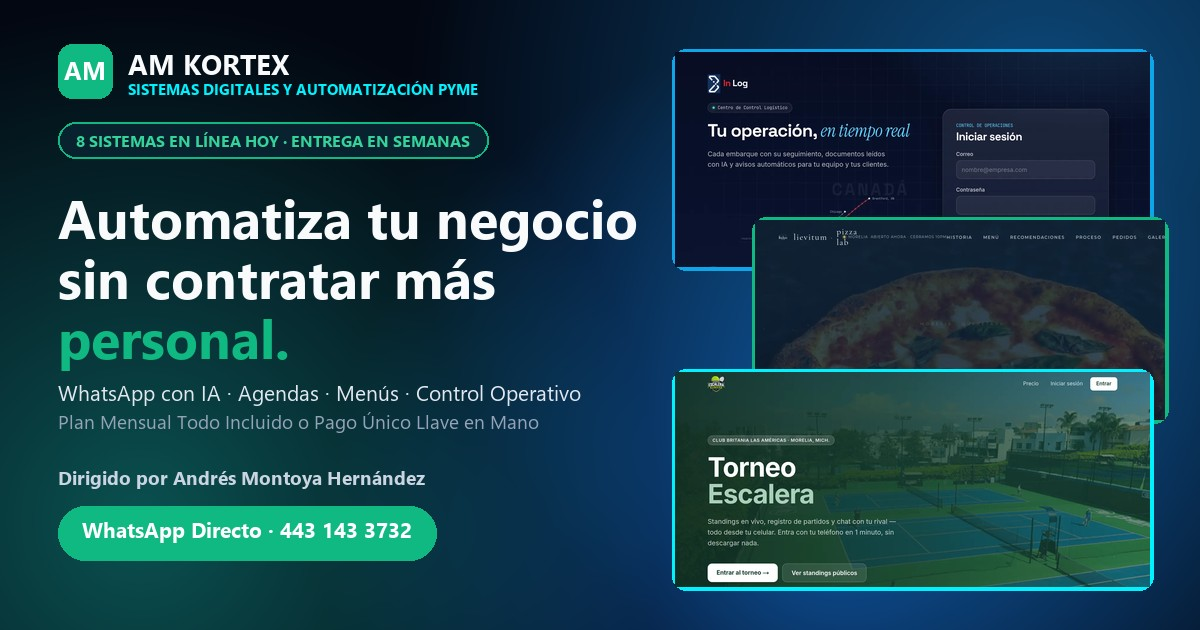
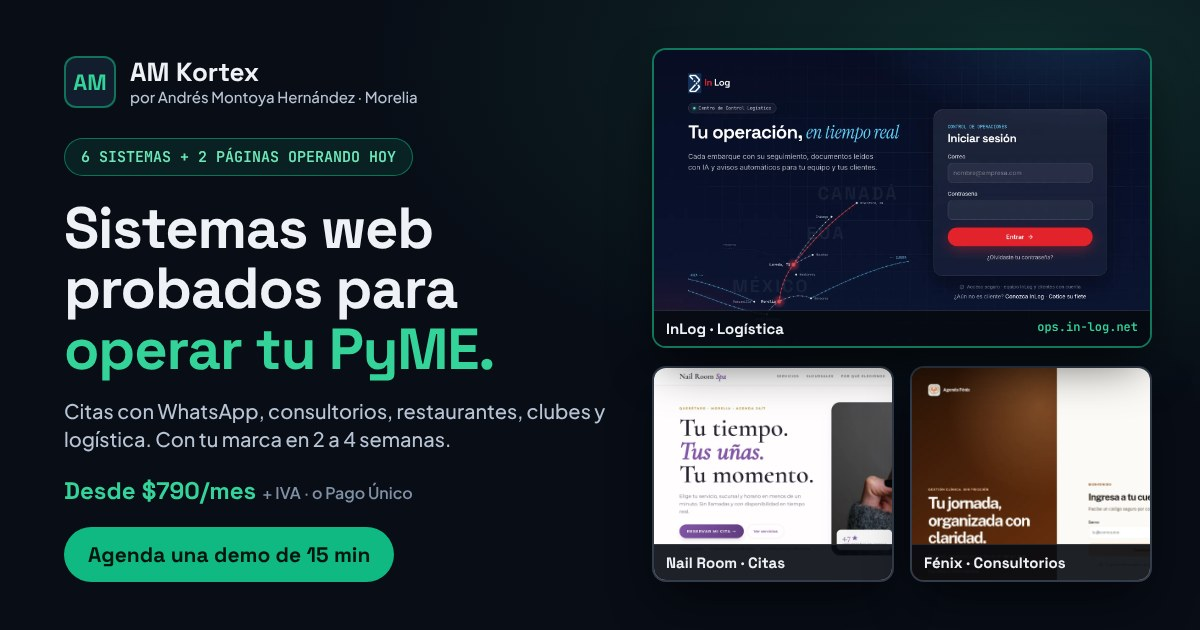
feat(site): new share image, email contact, honest ROI estimate, mobile tap targets (#3)
* feat(pricing): IVA, tiered support policy, rental terms; remove public family discount

- Show prices as MXN + IVA across hero, comparison, catalog, quoter, WhatsApp and PDF; add FAQ on IVA/CFDI
- Post-delivery support policy tiered per price tier ($490 / $590 / $890 / $1,490 per month)
- Monthly plan: 12-month minimum term and support capped at 2 h/month (site, PDF, sales kit)
- Remove public "Convenio Familiar / Amigo" card, quoter option and catalog column
- Lievitum: stop showing lievitum.com (now an unrelated site); label as demo
- Delete draft pages (opcion-*, hallmark-*) with stale prices; clean robots.txt
- WhatsApp quote uses the final price instead of the mid-animation value
- Fix mobile button text overflow and PDF footer truncation

Claude-Session: https://claude.ai/code/session_01S8LoLeHYkLSjTn2UqKphN6

* feat(site): static hero showcase, pricing tiers, demo CTA and mobile polish

- Replace the hero carousel with a fixed 3-system showcase (CLS 0.27 -> 0.004)
- Primary CTA is now "Agenda una demo de 15 min" (WhatsApp); "Ver sistemas en vivo" as secondary
- New "¿Cuánto cuesta?" section with the 4 price tiers, built from PLATFORMS data
- Nav: "Precios" link and compact "Agendar demo" button; brand subtitle hidden on phones
- Proof strip: "6 sistemas + 2 páginas web" instead of "8 en línea"
- Mobile: swipeable catalog and tiers instead of the 3D carousel, comparison table as cards,
  icon-only WhatsApp button, tighter section padding
[…]

diff --git a/index.html b/index.html
@@ -4,11 +4,11 @@
   <meta charset="UTF-8" />
   <meta name="robots" content="index, follow" />
   <meta name="viewport" content="width=device-width, initial-scale=1.0, maximum-scale=5.0" />
-  <title>AM Kortex | Sistemas Digitales, Páginas Web y Automatización para Negocios · Andrés Montoya</title>
-  <meta name="description" content="AM Kortex (dirigido por Andrés Montoya Hernández): sistemas digitales probados para clínicas, restaurantes, spas, clubes y empresas. Demostraciones en vivo y cotizador en PDF." />
+  <title>AM Kortex | Sistemas web probados para PyMEs en Morelia y Querétaro</title>
+  <meta name="description" content="Sistemas web ya operando con clientes reales: citas con WhatsApp, consultorios, restaurantes, clubes y logística. Con tu marca en 2 a 4 semanas, desde $790/mes + IVA. Agenda una demo de 15 minutos." />
   <meta name="author" content="AM Kortex · Andrés Montoya Hernández" />
   <meta name="theme-color" content="#080d16" />
-  <!-- URL BASE DEL SITIO: al conectar el dominio amkortex.com, reemplazar en canonical, og:url, og:image, twitter:image, JSON-LD, robots.txt y sitemap.xml -->
+  <!-- URL BASE DEL SITIO: al conectar el dominio amkortex.com, reemplazar en canonical, og:url, og:image, twitter:image, JSON-LD, robots.txt y sitemap.xml. Al tener correo empresarial, reemplazar andresmh99@gmail.com aquí y en aviso-de-privacidad.html -->
   <link rel="canonical" href="https://andresmh99-dev.github.io/andres-montoya-plataformas/" />
 
   <!-- Open Graph / Vista previa para WhatsApp, Facebook, LinkedIn -->
@@ -16,18 +16,18 @@
   <meta property="og:locale" content="es_MX" />
   <meta property="og:site_name" content="AM Kortex · Sistemas Digitales y Automatización" />
   <meta property="og:url" content="https://andresmh99-dev.github.io/andres-montoya-plataformas/" />
-  <meta property="og:title" content="AM Kortex | Sistemas Digitales y Automatización para Negocios" />
-  <meta property="og:description" content="Mira en vivo sistemas reales funcionando: WhatsApp que agenda citas solo 24/7, menús digitales sin comisiones, agendas clínicas y control logístico. Compra única o plan mensual." />
-  <meta property="og:image" content="https://andresmh99-dev.github.io/andres-montoya-plataformas/assets/og-image.jpg" />
+  <meta property="og:title" content="AM Kortex | Sistemas web probados para tu PyME" />
+  <meta property="og:description" content="6 sistemas y 2 páginas web operando hoy con clientes reales. Citas con WhatsApp, consultorios, restaurantes, clubes y logística, con tu marca en 2 a 4 semanas. Desde $790/mes + IVA." />
+  <meta property="og:image" content="https://andresmh99-dev.github.io/andres-montoya-plataformas/assets/og-image.jpg?v=2" />
   <meta property="og:image:width" content="1200" />
   <meta property="og:image:height" content="630" />
-  <meta property="og:image:alt" content="AM Kortex · Sistemas Digitales por Andrés Montoya" />
+  <meta property="og:image:alt" content="AM Kortex: sistemas web probados para PyMEs, con capturas de InLog, Nail Room y Consultorios Fénix" />
 
   <!-- Twitter Card -->
   <meta name="twitter:card" content="summary_large_image" />
-  <meta name="twitter:title" content="AM Kortex | Sistemas Digitales y Automatización para Negocios" />
-  <meta name="twitter:description" content="Tecnología probada y lista para personalizar con tu marca en semanas: agendas con WhatsApp automático, restaurantes, consultorios, clubes y logística." />
-  <meta name="twitter:image" content="https://andresmh99-dev.github.io/andres-montoya-plataformas/assets/og-image.jpg" />
+  <meta name="twitter:title" content="AM Kortex | Sistemas web probados para tu PyME" />
+  <meta name="twitter:description" content="6 sistemas y 2 páginas web operando hoy. Con tu marca en 2 a 4 semanas, desde $790/mes + IVA. Agenda una demo de 15 minutos." />
+  <meta name="twitter:image" content="https://andresmh99-dev.github.io/andres-montoya-plataformas/assets/og-image.jpg?v=2" />
 
   <!-- Datos estructurados para Google (negocio de servicios profesionales) -->
   <script type="application/ld+json">
@@ -37,8 +37,9 @@
     "name": "AM Kortex",
     "description": "Sistemas web probados para PyMEs: agendas y citas con WhatsApp, consultorios, restaurantes, clubes deportivos y control logístico, personalizados con tu marca en 2 a 4 semanas.",
     "url": "https://andresmh99-dev.github.io/andres-montoya-plataformas/",
-    "image": "https://andresmh99-dev.github.io/andres-montoya-plataformas/assets/og-image.jpg",
+    "image": "https://andresmh99-dev.github.io/andres-montoya-plataformas/assets/og-image.jpg?v=2",
     "telephone": "+52 443 143 3732",
+    "email": "andresmh99@gmail.com",
     "priceRange": "$$",
     "currenciesAccepted": "MXN",
     "areaServed": [
@@ -840,8 +841,15 @@
     }
     .range-input {
       width: 100%;
+      min-height: 32px;
       accent-color: var(--color-accent);
       cursor: pointer;
+    }
+    .roi-assumptions {
+      margin: var(--space-4) 0 var(--space-6);
+      font-size: 0.82rem;
+      color: var(--color-ink-dim);
+      max-width: 90ch;
     }
     .roi-kpi-grid {
       display: grid;
@@ -1140,6 +1148,18 @@
       line-height: 1.1;
       margin: var(--space-2) 0;
     }
+    .quote-mail-link {
+      display: inline-flex;
+      align-items: center;
+      justify-content: center;
+      min-height: 36px;
+      font-size: 0.86rem;
+      font-weight: 600;
+      color: var(--color-ink-muted);
+      text-decoration: underline;
+      text-underline-offset: 3px;
+    }
+    .quote-mail-link:hover { color: var(--color-ink); }
     .proposal-list {
       list-style: none;
       display: flex;
@@ -1164,6 +1184,11 @@
       gap: var(--space-4);
       font-size: 0.88rem;
       color: var(--color-ink-dim);
+    }
+    .footer-meta {
+      display: block;
+      margin-top: var(--space-1);
+      font-size: 0.8rem;
     }
     .b2b-footer-links {
       display: flex;
@@ -1551,6 +1576,16 @@
       .sys-actions { flex-direction: column; }
       .btn { width: 100%; }
 
+      /* Enlaces de texto con área de toque de al menos 32 px */
+      .domain-mono,
+      .hero-showcase-head a,
+      .b2b-footer-links a {
+        display: inline-flex;
+        align-items: center;
+        min-height: 32px;
+      }
+      .live-btn-inline { min-height: 36px; }
+
       /* Encabezado compacto */
       .brand-role { display: none; }
       .b2b-nav-inner { min-height: 60px; gap: var(--space-3); }
@@ -1803,7 +1838,7 @@
       <div class="section-header-split reveal-item">
         <h2 class="section-h2">Retorno de inversión y comparativa para gerencia</h2>
         <p class="section-desc">
-          Ajusta el volumen de citas o servicios de tu negocio y compara nuestra entrega contra agencias o seguir operando en Excel.
+          Ajusta el volumen de tu negocio para ver una estimación de lo que recuperas, y compara contra una agencia o seguir en Excel.
         </p>
       </div>
 
@@ -1829,21 +1864,25 @@
         <div class="roi-kpi-grid">
           <div class="roi-kpi-cell spotlight-panel reveal-item">
             <div class="roi-kpi-num" id="roiHoursSaved">36 hrs</div>
-            <div class="roi-kpi-label">Horas libres al mes</div>
-            <div class="roi-kpi-sub">Menos captura en recepción</div>
+            <div class="roi-kpi-label">Horas libres al mes (est.)</div>
+            <div class="roi-kpi-sub">Menos captura y confirmaciones</div>
           </div>
           <div class="roi-kpi-cell spotlight-panel reveal-item reveal-d1">
-            <div class="roi-kpi-num" id="roiExtraClients">+27</div>
-            <div class="roi-kpi-label">Clientes extra al mes</div>
+            <div class="roi-kpi-num" id="roiExtraClients">+10</div>
+            <div class="roi-kpi-label">Citas o ventas recuperadas (est.)</div>
             <div class="roi-kpi-sub">Respuestas 24/7 y anticipos</div>
           </div>
           <div class="roi-kpi-cell spotlight-panel reveal-item reveal-d2">
-            <div class="roi-kpi-num" style="color:var(--color-ink-amber);" id="roiExtraMoney">+$12,150</div>
-            <div class="roi-kpi-label">Ingreso mensual extra</div>
-            <div class="roi-kpi-sub">Se paga con 2 a 3 ventas</div>
+            <div class="roi-kpi-num" style="color:var(--color-ink-amber);" id="roiExtraMoney">+$4,500</div>
+            <div class="roi-kpi-label">Ingreso mensual recuperado (est.)</div>
+            <div class="roi-kpi-sub">Citas o ventas recuperadas × tu ticket</div>
           </div>
         </div>
       </div>
+      <p class="roi-assumptions">
+        Estimación ilustrativa, no garantía. Supone unos 10 minutos ahorrados de captura y confirmación por cita o pedido,
+        y recuperar alrededor del 5% de las citas o ventas que hoy se pierden por no contestar a tiempo. Tu resultado depende de tu operación.
+      </p>
 
       <div class="table-container reveal-item">
         <table class="b2b-table">
@@ -1864,8 +1903,8 @@
             </tr>
             <tr>
               <td>Inversión estimada</td>
-              <td data-label="Seguir en Excel o libreta">Fugas de $8,000 a $25,000/mes</td>
-              <td data-label="Agencia tradicional">$50,000 a $120,000 MXN</td>
+              <td data-label="Seguir en Excel o libreta">Costo oculto: horas de captura, errores y citas perdidas</td>
+              <td data-label="Agencia tradicional">Proyecto desde cero, normalmente de $50,000 MXN en adelante</td>
               <td data-label="AM Kortex" class="col-win">Desde $790/mes + IVA (+ activación) o Pago Único</td>
             </tr>
             <tr>
@@ -2075,6 +2114,7 @@
             <button type="button" id="holoPdfBtn" class="btn btn-secondary" style="width:100%;white-space:normal;height:auto;text-align:center;">
               Descargar propuesta formal en PDF
             </button>
+            <a id="holoMailBtn" href="mailto:andresmh99@gmail.com" class="quote-mail-link">Prefiero que me escriban por correo</a>
           </div>
         </div>
       </div>
@@ -2083,12 +2123,14 @@
 
   <footer class="b2b-footer">
     <div class="container b2b-footer-inner">
-      <div>
+      <div class="footer-brand">
         <strong style="color:var(--color-ink);">AM Kortex</strong>, Sistemas Web y Automatización por Andrés Montoya Hernández
+        <span class="footer-meta">Morelia, Michoacán · Atención remota en todo México · Precios en MXN + IVA, con factura</span>
       </div>
       <div class="b2b-footer-links">
-        <a href="aviso-de-privacidad.html">Aviso de Privacidad (LFPDPPP)</a>
         <a href="https://wa.me/524431433732" target="_blank" rel="noopener" style="color:var(--color-ink-emerald);font-weight:700;">WhatsApp +52 443 143 3732</a>
+        <a href="mailto:andresmh99@gmail.com?subject=Contacto%20desde%20AM%20Kortex">andresmh99@gmail.com</a>
+        <a href="aviso-de-privacidad.html">Aviso de Privacidad</a>
       </div>
     </div>
   </footer>
@@ -2233,8 +2275,11 @@
           const avgTicket = Number(tRange.value);
           document.getElementById('roiClientsVal').textContent = `${clientsPerWeek} / sem`;
           document.getElementById('roiTicketVal').textContent = `$${avgTicket.toLocaleString('es-MX')} MXN`;
-          const hoursSaved = Math.max(12, Math.round(clientsPerWeek * 0.78));
-          const extraClients = Math.max(4, Math.round(clientsPerWeek * 0.6));
+          // Supuestos conservadores (ver nota bajo los indicadores):
+          // ~4.3 semanas por mes, ~10 min ahorrados por cita y ~5% de citas o ventas recuperadas.
+          const perMonth = clientsPerWeek * 4.3;
+          const hoursSaved = Math.round((perMonth * 10) / 60);
+          const extraClients = Math.max(1, Math.round(perMonth * 0.05));
           const extraMoney = extraClients * avgTicket;
           animateNumber(document.getElementById('roiHoursSaved'), hoursSaved, (v) => `${v} hrs`);
           animateNumber(document.getElementById('roiExtraClients'), extraClients, (v) => `+${v}`);
@@ -2526,6 +2571,29 @@
           const msg = `Hola Andrés, soy *${client}*.\n\nVi el catálogo de *AM Kortex* y me interesa cotizar:\n• Sistema: ${p.name} (${p.displayDomain})\n• Modalidad: ${selectedPlan === 'unico' ? 'Pago Único' : 'Plan Mensual'} (${priceTxt})\n• Detalle: ${subTxt}\n\n¿Podemos platicar para adaptarlo a mi negocio?`;
           window.open(`https://wa.me/524431433732?text=${encodeURIComponent(msg)}`, '_blank');
         });
+
+        const mailBtn = document.getElementById('holoMailBtn');
+        if (mailBtn) {
+          mailBtn.addEventListener('click', (ev) => {
+            ev.preventDefault();
+            const p = platforms.find((x) => x.id === sel.value) || platforms[0];
+            const client = document.getElementById('holoClientName').value.trim() || '';
+            const modo = selectedPlan === 'unico' ? 'Pago Único' : 'Plan Mensual';
+            const priceTxt = selectedPlan === 'unico'
+              ? `$${p.basePrice.toLocaleString('es-MX')} MXN + IVA`
+              : `$${p.monthlyFee.toLocaleString('es-MX')} / mes + IVA`;
+            const subject = `Cotización AM Kortex: ${p.name.split('·')[0].trim()}${client ? ' · ' + client : ''}`;
+            const body =
+              `Hola Andrés,\n\nMe interesa cotizar un sistema como ${p.name} (${p.displayDomain}).\n` +
+              `Modalidad: ${modo} (${priceTxt})\n` +
+              `Empresa o negocio: ${client || '(escribe aquí)'}\n\n` +
+              `Mi teléfono: \n¿Cuándo podemos platicar?\n`;
+            if (window.trackCommercialEvent) {
+              window.trackCommercialEvent('quote_email_click', 'Contact', { system: p.id, plan: selectedPlan });
+            }
+            window.location.href = `mailto:andresmh99@gmail.com?subject=${encodeURIComponent(subject)}&body=${encodeURIComponent(body)}`;
+          });
+        }
 
         document.getElementById('holoPdfBtn').addEventListener('click', () => {
           const p = platforms.find((x) => x.id === sel.value) || platforms[0];

diff --git a/aviso-de-privacidad.html b/aviso-de-privacidad.html
@@ -169,9 +169,10 @@
         Usted tiene derecho a conocer qué datos personales tenemos de usted, para qué los utilizamos y las condiciones del uso que les damos (<strong>Acceso</strong>). Asimismo, es su derecho solicitar la corrección de su información personal en caso de que esté desactualizada, sea inexacta o incompleta (<strong>Rectificación</strong>); que la eliminemos de nuestros registros o bases de datos cuando considere que la misma no está siendo utilizada adecuadamente (<strong>Cancelación</strong>); así como oponerse al uso de sus datos personales para fines específicos (<strong>Oposición</strong>).
       </p>
       <p>
-        Para ejercer cualquiera de los derechos ARCO o revocar su consentimiento, basta con enviar un mensaje directo indicando su nombre y solicitud a través de nuestro canal oficial de atención:
+        Para ejercer cualquiera de los derechos ARCO o revocar su consentimiento, basta con enviar un mensaje directo indicando su nombre y solicitud a través de cualquiera de nuestros canales oficiales de atención:
       </p>
       <ul>
+        <li><strong>Correo electrónico:</strong> <a href="mailto:andresmh99@gmail.com?subject=Solicitud%20ARCO">andresmh99@gmail.com</a> (asunto: "Solicitud ARCO")</li>
         <li><strong>WhatsApp Directo:</strong> <a href="https://wa.me/524431433732" target="_blank" rel="noopener">+52 443 143 3732</a></li>
         <li><strong>Ubicación de atención:</strong> Morelia, Michoacán / Atención remota en todo México.</li>
         <li><strong>Tiempo de respuesta máximo:</strong> 5 días hábiles.</li>
